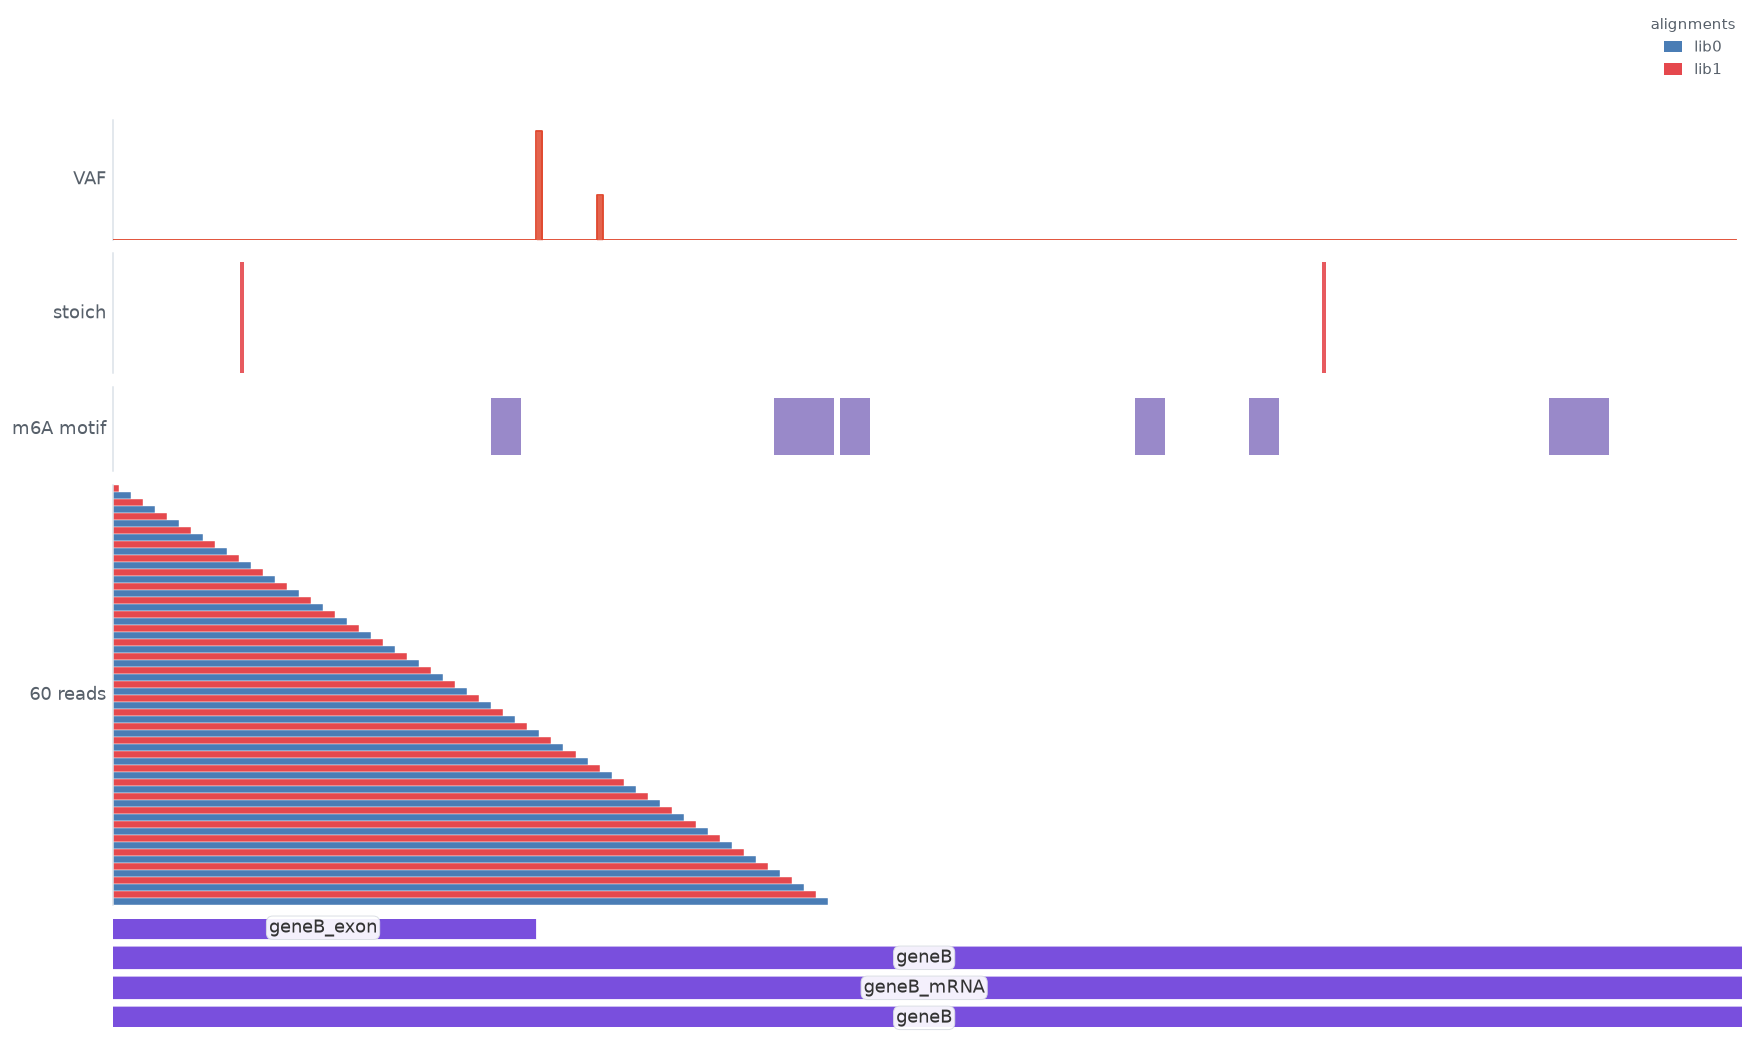
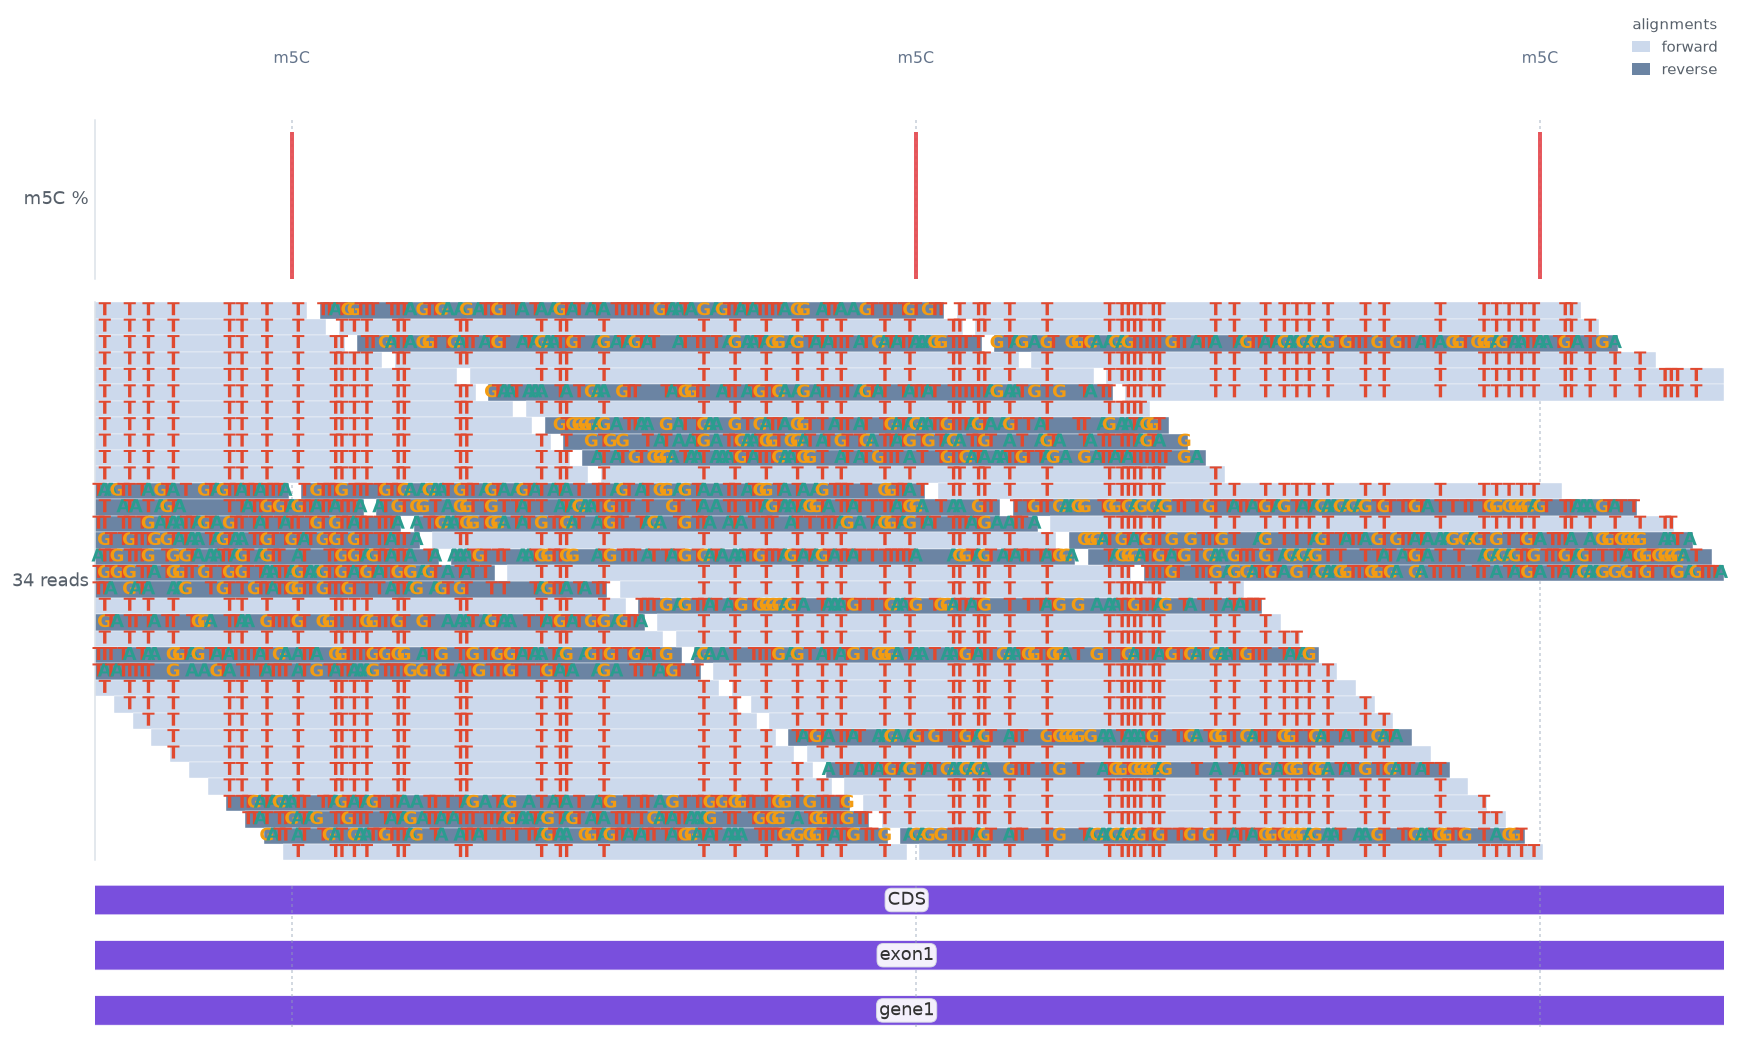
Code cleanup: fix lint issues and organize imports
- Fix F841 unused variables in make_m5c_bisulfite_bam.py and make_m6a_glori_bam.py
- Add noqa comment for intentional E402 in visualize_m6a_glori.py
- Sort imports with isort (I001) across all igvplot modules
- All lint checks now pass with ruff
- Tests still pass: 57/57

diff --git a/igvplot/view.py b/igvplot/view.py
@@ -10,12 +10,12 @@ from __future__ import annotations
 from dataclasses import dataclass
 from typing import Dict, List, Optional, Tuple, Union
 
-import numpy as np
 import matplotlib.pyplot as plt
 import matplotlib.ticker as mticker
-from matplotlib.gridspec import GridSpec
-from matplotlib.figure import Figure
+import numpy as np
 from dna_features_viewer import GraphicRecord
+from matplotlib.figure import Figure
+from matplotlib.gridspec import GridSpec
 
 from .bigwig import read_bigwig_coverage
 from .features import load_features
@@ -34,8 +34,8 @@ from .plot import (
     draw_sites,
 )
 from .reads import (
-    Reference,
     Read,
+    Reference,
     compute_coverage,
     fetch_reads,
     junction_counts,
@@ -44,8 +44,8 @@ from .region import Region
 from .theme import (
     BED,
     COVERAGE,
+    FEATURE_COLORS,
     GENE_EDGE,
-    GENE_FACE,
     HIGH_BG,
     SASHIMI,
     SPINE,
@@ -367,6 +367,7 @@ class GenomeView:
         plot_kwargs: Optional[dict] = None,
         feature_types: Optional[set] = None,
         min_feature_length: int = 0,
+        feature_colors: Optional[dict] = None,
     ) -> "GenomeView":
         """Add a gene/feature track rendered by dna_features_viewer.
 
@@ -378,6 +379,12 @@ class GenomeView:
         (e.g. ``{"gene", "CDS", "mRNA", "exon"}``) — handy to hide tiny point
         variants and show a clean structural gene track. ``min_feature_length``
         drops features shorter than this many base pairs (default 0 = keep all).
+
+        ``feature_colors`` is an optional ``{feature_type: color}`` mapping to
+        override the default dna_features_viewer colors. Keys are matched
+        case-insensitively. When not given, a built-in modern palette is used
+        (gene = slate blue, mRNA = teal, exon = coral, CDS = indigo, UTR =
+        amber, promoter = sage green, etc.).
         """
         region = self.region
         if source is None:
@@ -397,6 +404,17 @@ class GenomeView:
                 f for f in feats
                 if abs(getattr(f, "end", 0) - getattr(f, "start", 0)) >= min_feature_length
             ]
+
+        # Apply custom or default feature colours
+        if feature_colors is not None:
+            colors = {str(k).lower(): v for k, v in feature_colors.items()}
+        else:
+            colors = FEATURE_COLORS
+        for f in feats:
+            ftype = str(getattr(f, "feature_type", "")).lower()
+            if ftype in colors:
+                f.color = colors[ftype]
+
         record = GraphicRecord(
             first_index=region.start,
             sequence_length=region.length,

diff --git a/scripts/make_m5c_bisulfite_bam.py b/scripts/make_m5c_bisulfite_bam.py
@@ -68,7 +68,6 @@ def make_spliced_read(ref, start, end, strand="+"):
     
     # Determine which exons this read overlaps
     in_exon1 = start < EXON1_END and end > EXON1_START
-    in_exon2 = start < EXON2_END and end > EXON2_START
     spans_intron = start < INTRON_START and end > INTRON_END
     
     if spans_intron:
@@ -242,22 +241,26 @@ def main():
         })
     
     # Write BAM
-    with pysam.AlignmentFile(bam_path, "wb", header=header) as bam:
+    temp_bam = bam_path + ".unsorted.bam"
+    with pysam.AlignmentFile(temp_bam, "wb", header=header) as bam:
         for i, r in enumerate(reads):
             aln = pysam.AlignedSegment(bam.header)
             aln.query_name = f"read_{i:05d}"
             aln.query_sequence = r["query"]
             aln.is_reverse = (r["strand"] == "-")
             aln.mapping_quality = 60
+            aln.reference_id = 0  # Set reference ID to the first (and only) chromosome
             aln.reference_start = r["ref_start"]
             aln.cigar = r["cigar"]
             aln.query_qualities = pysam.qualitystring_to_array("I" * len(r["query"]))
             bam.write(aln)
     
-    pysam.sort("-o", bam_path, bam_path)
+    # Sort and index
+    pysam.sort("-o", bam_path, temp_bam)
+    os.remove(temp_bam)
     pysam.index(bam_path)
 
-    print(f"[m5C bisulfite] wrote:")
+    print("[m5C bisulfite] wrote:")
     print(f"  {genome_fa}")
     print(f"  {annot_gb}")
     print(f"  {sites_bed}")

diff --git a/examples/generate_gallery.py b/examples/generate_gallery.py
@@ -226,18 +226,20 @@ def new_tracks():
 
 
 def epi():
-    """Per-base variant fraction, modification stoichiometry and IUPAC motifs."""
+    """Per-base m5C stoichiometry with bisulfite C→T mutations."""
+    M5C_BAM = os.path.join(REPO, "data", "m5c", "m5c_reads.bam")
+    M5C_REF = os.path.join(REPO, "data", "m5c", "m5c_genome.fa")
+    M5C_GB = os.path.join(REPO, "data", "m5c", "m5c_annotation.gb")
     gv = (
-        GenomeView(region=HERO_REGION, reference=REF, figsize=(15, 9))
-        .add_variant_fraction(BAM, reference=REF, weight=1.0)
+        GenomeView(region="chrM5C:120-380", reference=M5C_REF, figsize=(15, 9))
         .add_mod_fraction(
-            {6950: (1, "m6A", 0.75), 7060: (-1, "m5C", 0.4), 7130: (1, "m6A", 0.3)},
-            label="stoich",
+            {150: (1, "m5C", 0.90), 250: (1, "m5C", 0.75), 350: (1, "m5C", 0.60)},
+            label="m5C %",
             weight=1.0,
         )
-        .add_motifs("DRACH", label="m6A motif", weight=0.7)
-        .add_reads(BAM, reference=REF, color_by="readgroup", group_by="pairOrientation", max_reads=60)
-        .add_features(GB, min_feature_length=3)
+        .add_reads(M5C_BAM, reference=M5C_REF, color_by="strand", max_reads=80)
+        .add_features(M5C_GB, min_feature_length=3)
+        .add_sites({150: "m5C", 250: "m5C", 350: "m5C"})
     )
     save(gv, "gallery_epigenetics.png", dpi=120)
 

diff --git a/igvplot/__init__.py b/igvplot/__init__.py
@@ -28,7 +28,14 @@ Track adders include reads (overlay), coverage (strand/overlay), sashimi
 signal, interaction arcs, Hi-C/TAD/BED/scale and fully custom tracks
 (``add_track``). ``igvplot.summary`` returns region QC stats.
 """
-from .region import Region
+from . import plot
+from .bigwig import (
+    BigWigUnavailableError,
+    coverage_from_bedgraph,
+    read_bigwig_coverage,
+)
+from .features import load_features
+from .plot import build_legend_items, set_font_size
 from .reads import (
     BASE_COLORS,
     Read,
@@ -40,22 +47,15 @@ from .reads import (
     open_reference,
     variant_allele_fraction,
 )
-from .features import load_features
-from .plot import build_legend_items, set_font_size
-from .theme import apply_theme
-from .bigwig import (
-    BigWigUnavailableError,
-    coverage_from_bedgraph,
-    read_bigwig_coverage,
-)
+from .region import Region
+from .theme import FEATURE_COLORS, apply_theme
 from .view import (
+    IGV,
     AlignmentView,
     GenomeView,
-    IGV,
     plot_view,
     summary,
 )
-from . import plot
 
 __version__ = "0.0.1"
 
@@ -78,6 +78,7 @@ __all__ = [
     "build_legend_items",
     "set_font_size",
     "apply_theme",
+    "FEATURE_COLORS",
     "open_reference",
     "read_bigwig_coverage",
     "coverage_from_bedgraph",

diff --git a/igvplot/theme.py b/igvplot/theme.py
@@ -78,6 +78,24 @@ CATEGORICAL = [
     "#7f8c8d",  # grey
 ]
 
+# Default feature-type colours for the gene/feature track (dna_features_viewer).
+# Keys are lowercased feature types.
+FEATURE_COLORS = {
+    "gene": "#5e6fa3",      # indigo slate
+    "mrna": "#2a9d8f",      # teal
+    "exon": "#e07a5f",      # terracotta / coral
+    "cds": "#3d5a80",       # deep steel blue
+    "5'utr": "#f4a261",     # warm amber
+    "3'utr": "#e9c46a",     # soft gold
+    "utr": "#f4a261",       # warm amber
+    "promoter": "#81b29a",  # sage green
+    "enhancer": "#e76f51",  # burnt orange
+    "intron": "#9aa5b1",    # cool grey
+    "repeat_region": "#b8b8b8",
+    "variation": "#e5484d", # soft red
+    "misc_feature": "#8d99ae",
+}
+
 
 def apply_theme() -> None:
     """Apply the modern matplotlib defaults used by every rendered figure.

diff --git a/igvplot/plot.py b/igvplot/plot.py
@@ -8,11 +8,11 @@ from __future__ import annotations
 
 from typing import Dict, List, Optional, Tuple
 
-import numpy as np
 import matplotlib as mpl
 import matplotlib.colors as mcolors
 import matplotlib.patches as mpatches
 import matplotlib.patheffects as mpatheffects
+import numpy as np
 
 from .reads import BASE_COLORS, Read
 from .region import Region
@@ -107,8 +107,8 @@ def _gradient_area(ax, x: np.ndarray, y: np.ndarray, color: str, zorder: int = 1
     gradient image to it — a subtle, modern look versus a flat translucent
     fill.
     """
-    from matplotlib.path import Path
     from matplotlib.patches import PathPatch
+    from matplotlib.path import Path
 
     # step-mid outline: half-step before/after each value
     mid = np.concatenate([[x[0]], (x[:-1] + x[1:]) / 2.0, [x[-1]]])

diff --git a/scripts/make_m6a_glori_bam.py b/scripts/make_m6a_glori_bam.py
@@ -79,10 +79,6 @@ def make_spliced_read(ref, start, end, strand="+"):
         (EXON2_START, EXON2_END),
         (EXON3_START, EXON3_END),
     ]
-    introns = [
-        (INTRON1_START, INTRON1_END),
-        (INTRON2_START, INTRON2_END),
-    ]
     
     # Find overlapping exons
     overlaps = []
@@ -302,7 +298,7 @@ def main():
     os.remove(temp_bam)
     pysam.index(bam_path)
 
-    print(f"[m6A GLORI] wrote:")
+    print("[m6A GLORI] wrote:")
     print(f"  {genome_fa}")
     print(f"  {annot_gb}")
     print(f"  {sites_bed}")

diff --git a/igvplot/cli.py b/igvplot/cli.py
@@ -242,8 +242,8 @@ def main(argv=None) -> int:
         if not variants:
             print("igvplot: no variants parsed from input", file=sys.stderr)
             return 2
-        from .view import plot_view
         from .reads import variant_allele_fraction
+        from .view import plot_view
 
         for chrom, pos, ref, alt in variants:
             region = _centered(chrom, pos, args.window)

diff --git a/igvplot/reads.py b/igvplot/reads.py
@@ -9,12 +9,11 @@ direct access to read flags, CIGAR and per-base events.
 from __future__ import annotations
 
 from dataclasses import dataclass, field
+from os import fspath
 from typing import Dict, Iterable, List, Optional, Tuple, Union
 
 import numpy as np
 import pysam
-
-from os import fspath
 
 from .region import Region
 from .theme import BASE_COLORS

diff --git a/scripts/visualize_m6a_glori.py b/scripts/visualize_m6a_glori.py
@@ -20,7 +20,7 @@ matplotlib.use('Agg')  # Use non-interactive backend
 HERE = os.path.dirname(os.path.abspath(__file__))
 sys.path.insert(0, os.path.join(HERE, '..'))
 
-from igvplot import plot_view
+from igvplot import plot_view  # noqa: E402
 
 DATA = os.path.join(HERE, "..", "data", "m6a")
 OUTPUT = os.path.join(DATA, "m6a_glori_visualization.png")
